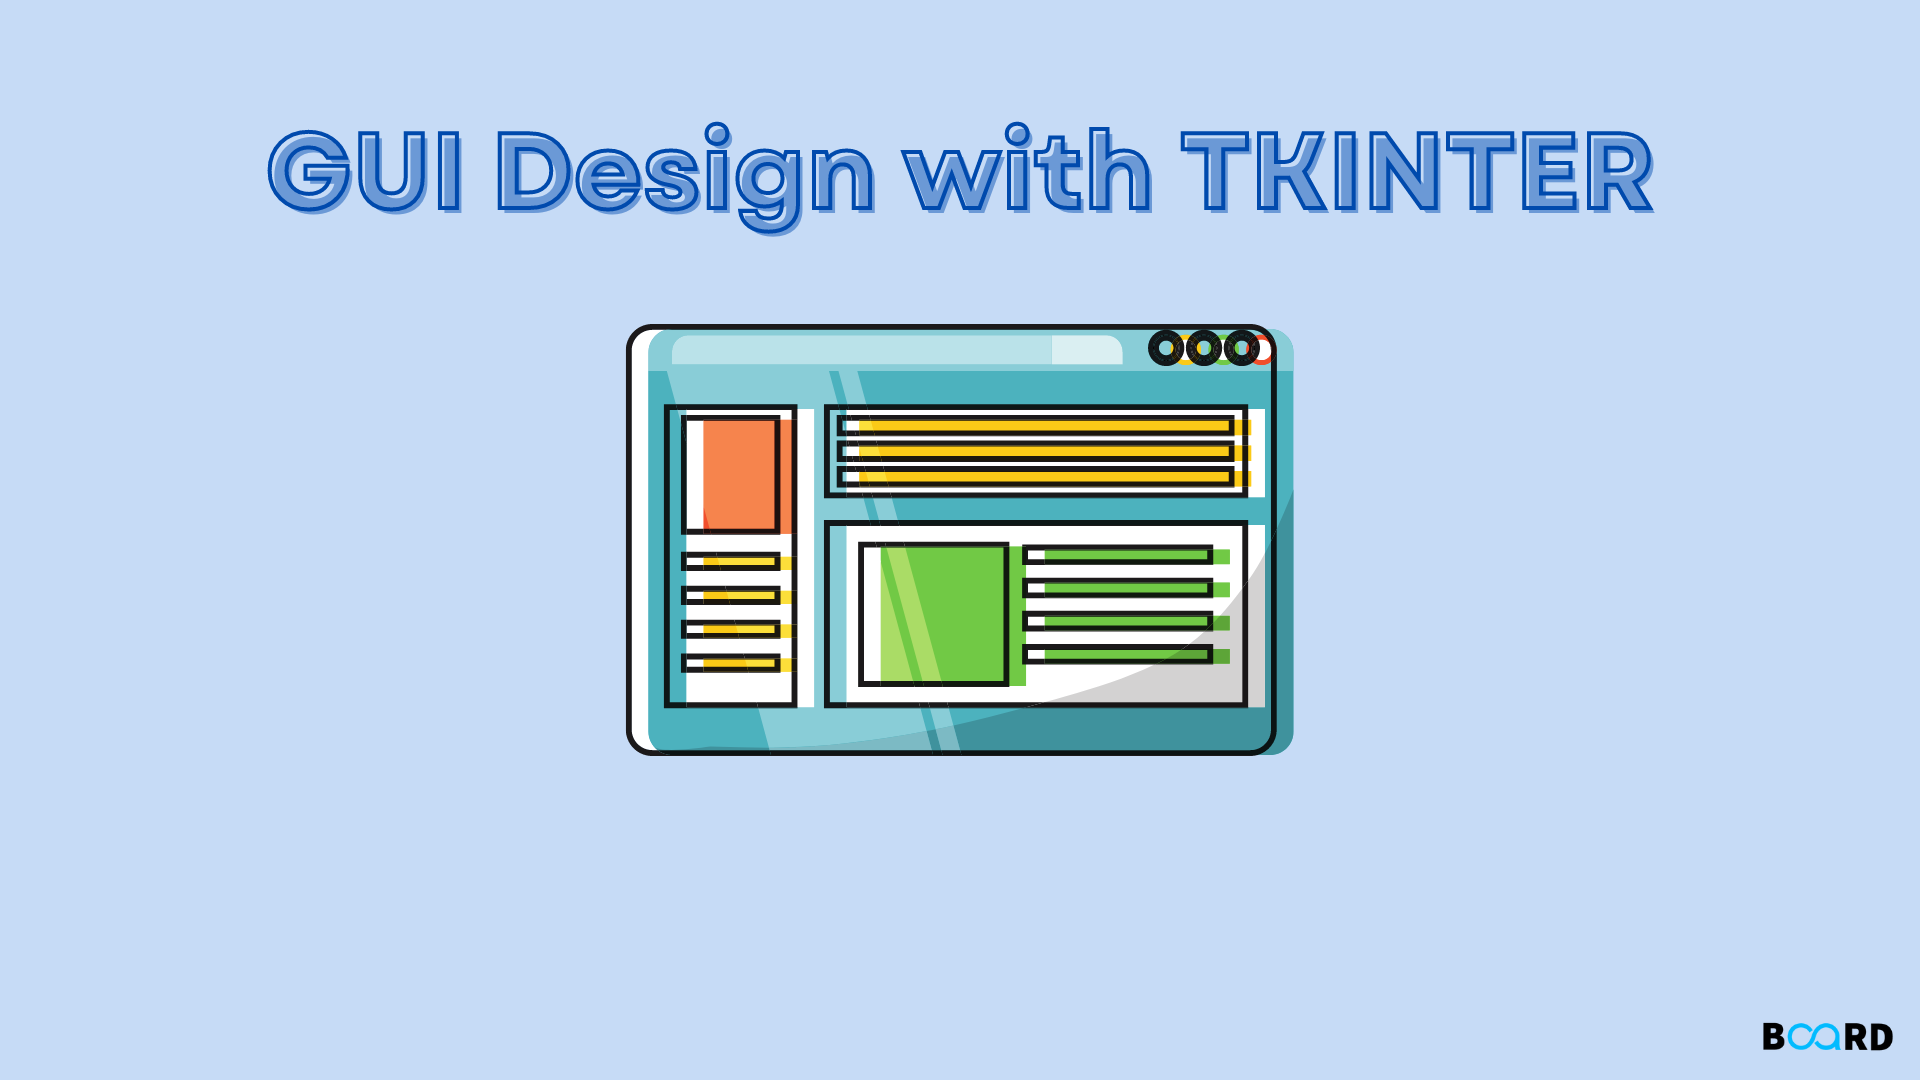
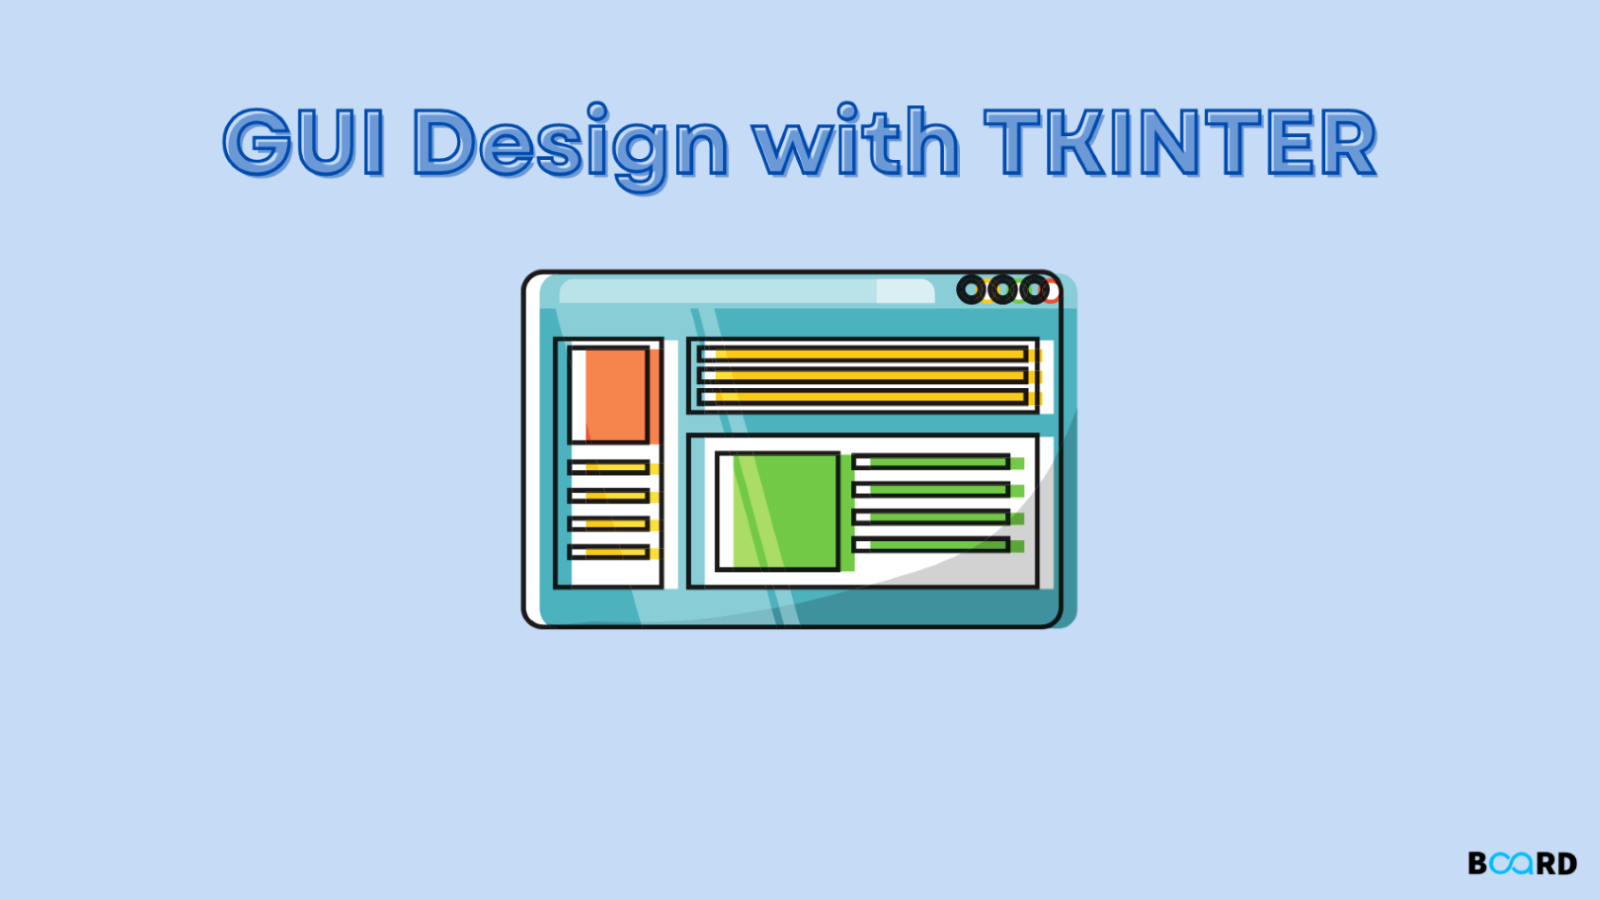
ImageTk

diff --git a/images_tk.py b/images_tk.py
@@ -1,12 +1,19 @@
 from tkinter import *
 root= Tk()  # small k
+from PIL import Image, ImageTk # before this install pillow
 
-root.geometry("444x244")
+root.geometry("1920x1080")
 
 # images  related widgets
-photo=PhotoImage(file="img.png")
+'''photo=PhotoImage(file="img.png")
 label1=Label(image=photo)
-label1.pack()
+label1.pack()'''
+
+# for jpgimages--
+image2=Image.open("img2.jpeg")
+photo2=ImageTk.PhotoImage(image2)
+label2=Label(image=photo2)
+label2.pack()
 
 
 
